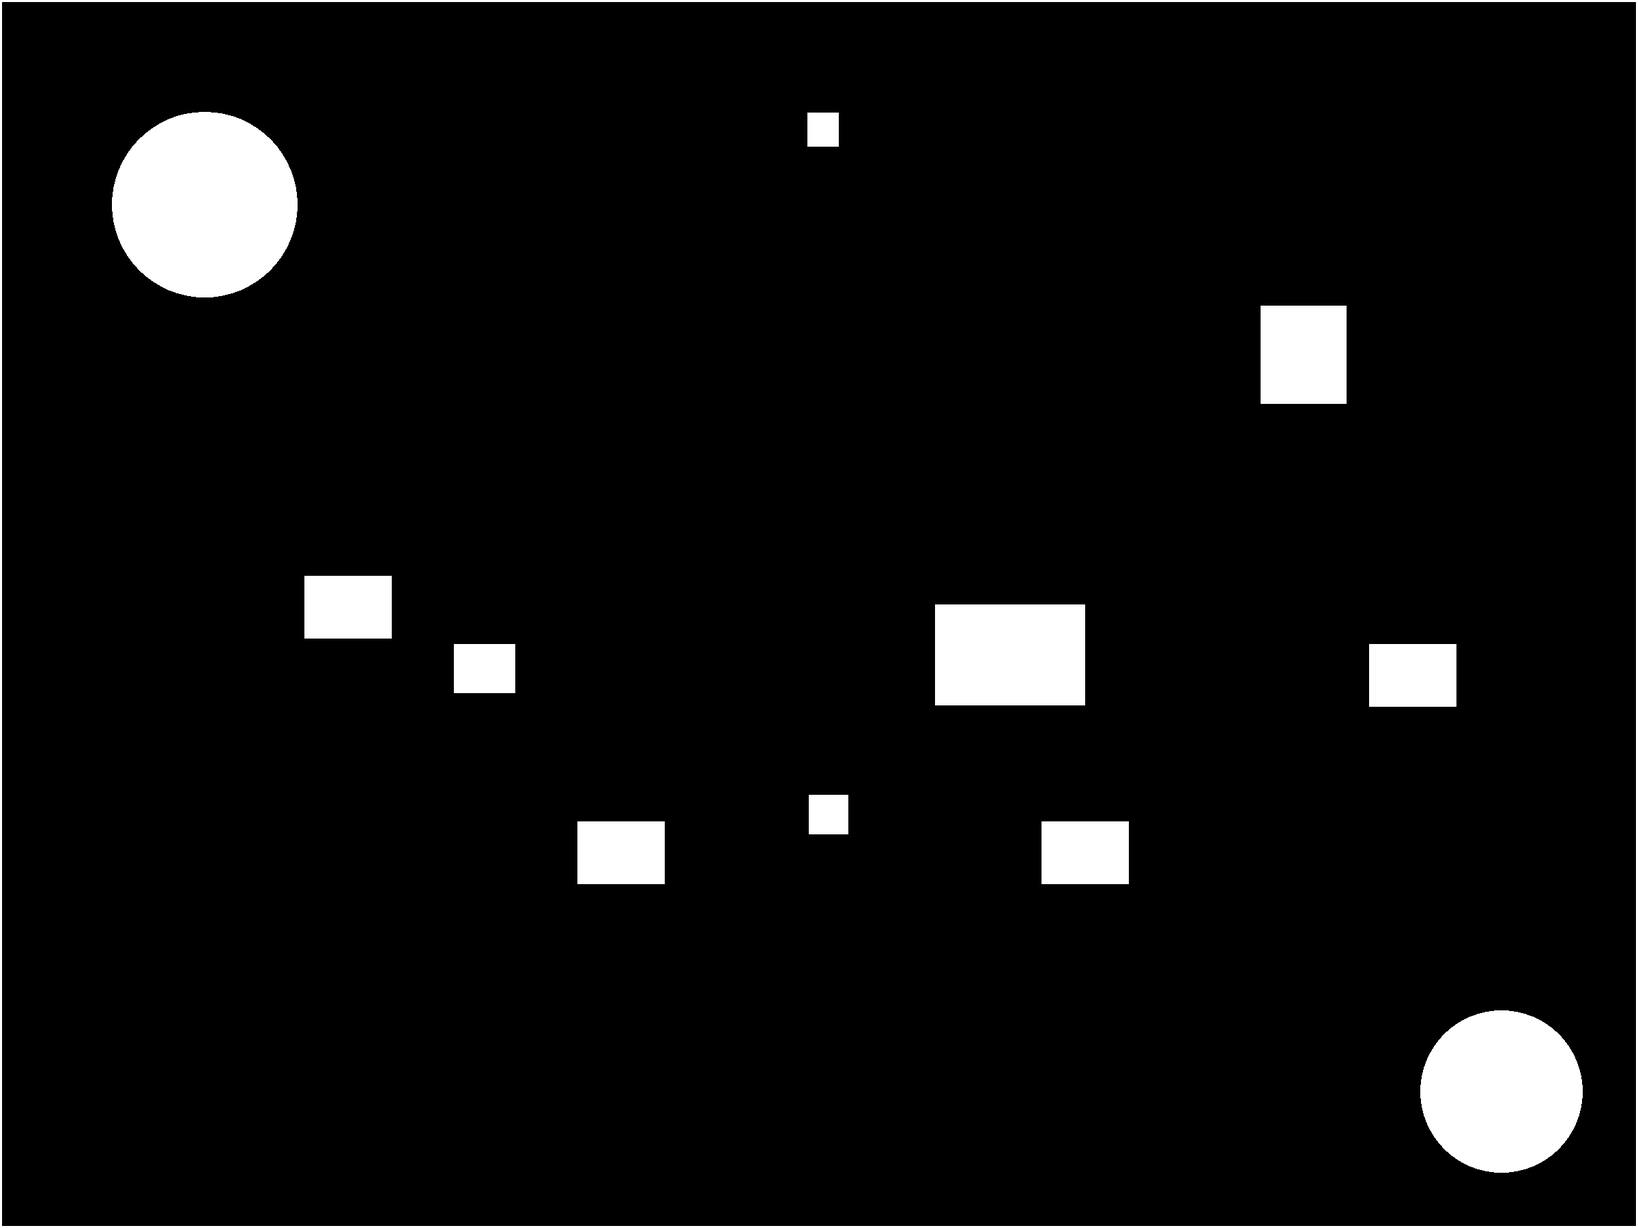
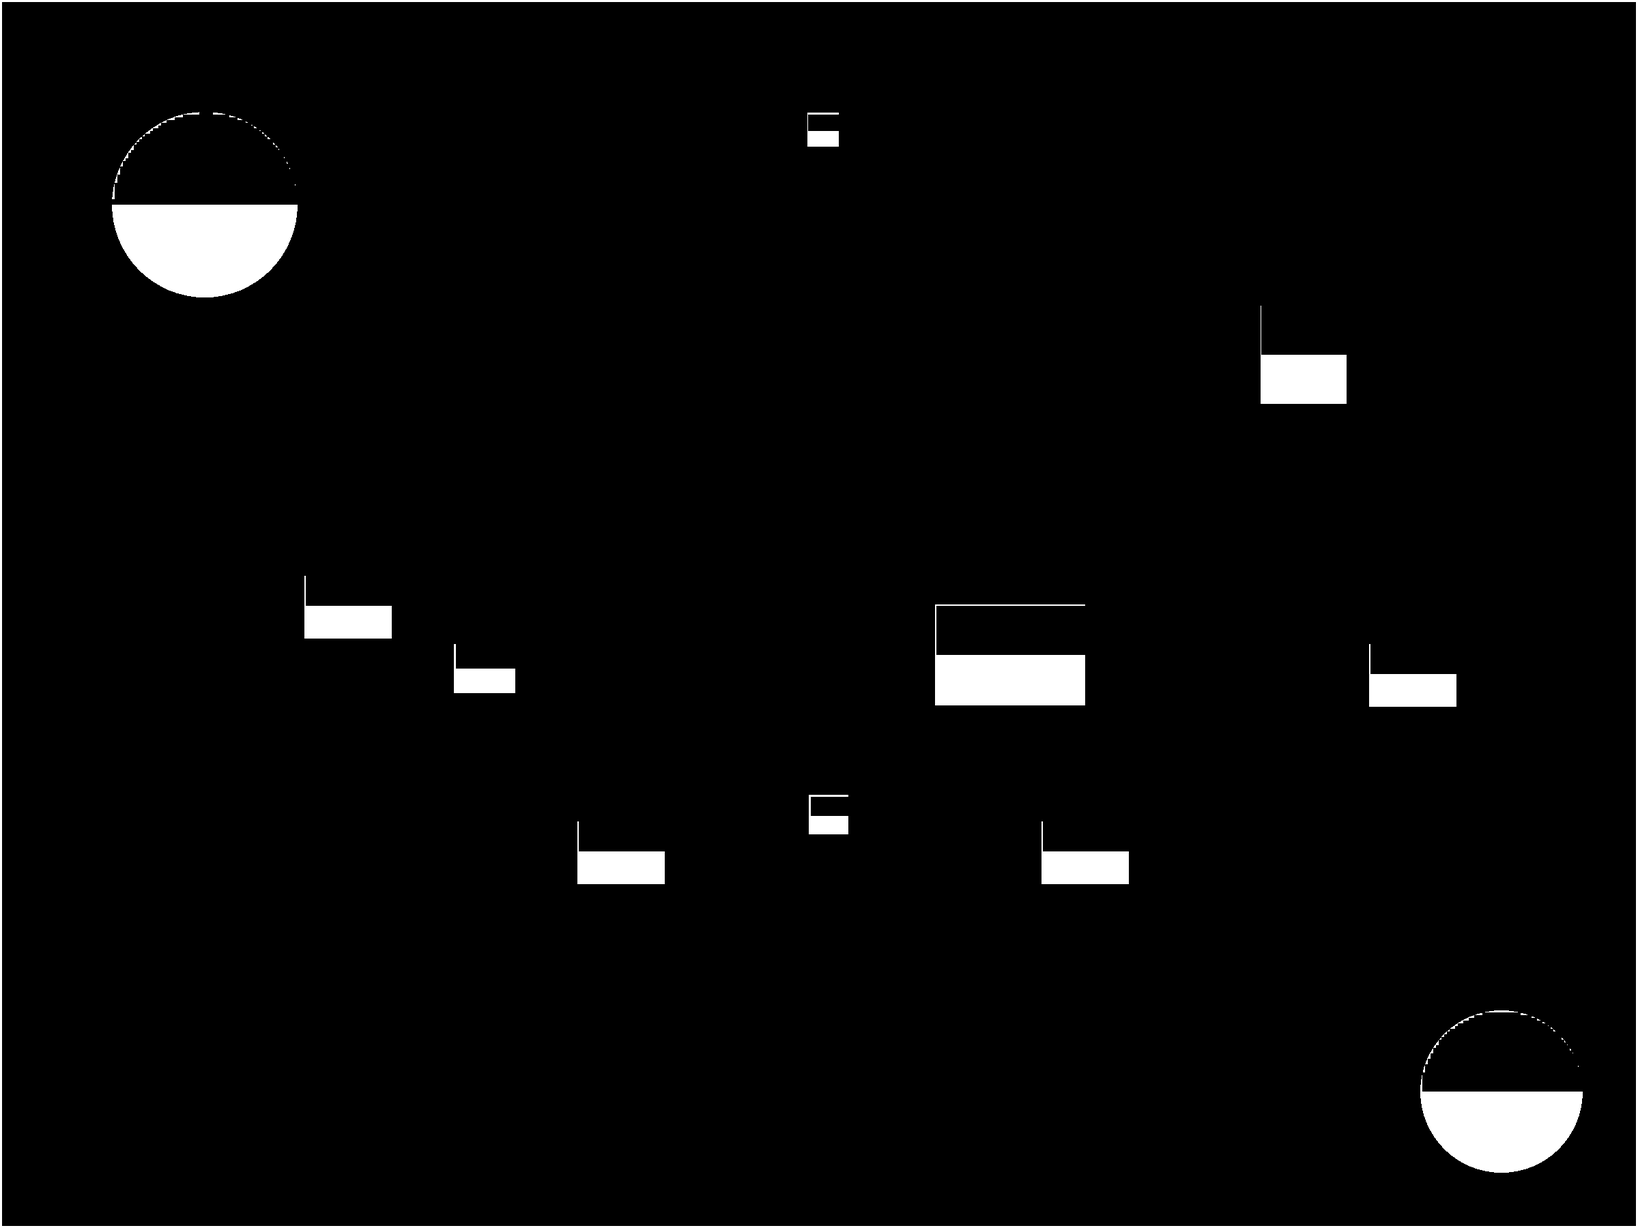
Telhados: tools/topo.py recorta telhados, copas e serras dos mapas pintados (Buck passa por trás; colisão só na base, original em docs/colisao_pc); mapa Hoje com vilas pintadas em Tiradentes, São João e Vila Rica e etiquetas/porta no lugar; sw v2-39
Claude-Session: https://claude.ai/code/session_01KFaBDaA6YPS7remqNCgnin

diff --git a/assets.data.js b/assets.data.js
@@ -1,2 +1,2 @@
 // GERADO por tools/build_assets.mjs — não editar à mão.
-window.ASSETS = ["assets/ui/btn_azul.webp","assets/ui/btn_ouro.webp","assets/ui/panel.webp","assets/icons/angu.webp","assets/icons/barrete.webp","assets/icons/bateia.webp","assets/icons/botas.webp","assets/icons/boticao.webp","assets/icons/canoa.webp","assets/icons/carta-tj.webp","assets/icons/couro.webp","assets/icons/estanho.webp","assets/icons/farinha.webp","assets/icons/ferradura.webp","assets/icons/ferro.webp","assets/icons/formao.webp","assets/icons/gravura.webp","assets/icons/guia.webp","assets/icons/hud_brilho.webp","assets/icons/hud_mochila.webp","assets/icons/hud_ouro.webp","assets/icons/hud_relatorio.webp","assets/icons/hud_segredo.webp","assets/icons/lampiao.webp","assets/icons/livro-antonil.webp","assets/icons/luneta.webp","assets/icons/machado.webp","assets/icons/missao_cajueiro.webp","assets/icons/missao_cavalete.webp","assets/icons/missao_destino.webp","assets/icons/missao_gelo.webp","assets/icons/missao_mamoeiro.webp","assets/icons/missao_mandioca.webp","assets/icons/missao_palavra.webp","assets/icons/missao_papagaio.webp","assets/icons/missao_quitanda.webp","assets/icons/missao_tamandua.webp","assets/icons/oratorio.webp","assets/icons/pacoca.webp","assets/icons/palha.webp","assets/icons/paodequeijo.webp","assets/icons/pedra.webp","assets/icons/pirita.webp","assets/icons/quitanda.webp","assets/icons/rapadura.webp","assets/icons/rede.webp","assets/icons/regua.webp","assets/icons/santo.webp","assets/icons/sorvete.webp","assets/icons/stetson.webp","assets/icons/tricornio.webp","assets/icons/turmalina.webp","assets/sprites/anciao.webp","assets/sprites/antiquario.webp","assets/sprites/antonil.webp","assets/sprites/aprendiz.webp","assets/sprites/arrieiro.webp","assets/sprites/boitata.webp","assets/sprites/boto.webp","assets/sprites/buck.webp","assets/sprites/buck_barrete.webp","assets/sprites/buck_couro.webp","assets/sprites/buck_palha.webp","assets/sprites/buck_tricornio.webp","assets/sprites/cafeeiro.webp","assets/sprites/capitao.webp","assets/sprites/caramuru.webp","assets/sprites/carioca.webp","assets/sprites/cartografo.webp","assets/sprites/chapeleiro.webp","assets/sprites/cineasta.webp","assets/sprites/cobrador.webp","assets/sprites/colombo.webp","assets/sprites/conspirador.webp","assets/sprites/contador.webp","assets/sprites/cortesao.webp","assets/sprites/curadora.webp","assets/sprites/curupira.webp","assets/sprites/engenheiro.webp","assets/sprites/engenho.webp","assets/sprites/faiscador.webp","assets/sprites/feitor.webp","assets/sprites/fernao.webp","assets/sprites/frans.webp","assets/sprites/frevo.webp","assets/sprites/fundidor.webp","assets/sprites/gen_cidadao.webp","assets/sprites/gen_cidadao_retrato.webp","assets/sprites/gen_marinheiro.webp","assets/sprites/gen_marinheiro_retrato.webp","assets/sprites/gen_sertanejo.webp","assets/sprites/gen_sertanejo_retrato.webp","assets/sprites/gen_soldado.webp","assets/sprites/gen_soldado_retrato.webp","assets/sprites/guardia.webp","assets/sprites/guia.webp","assets/sprites/iara.webp","assets/sprites/irmao.webp","assets/sprites/jardineiro.webp","assets/sprites/lobisomem.webp","assets/sprites/louie.webp","assets/sprites/maedoouro.webp","assets/sprites/mapinguari.webp","assets/sprites/maquinista.webp","assets/sprites/marcgrave.webp","assets/sprites/marinheiro.webp","assets/sprites/moncoeiro.webp","assets/sprites/mula.webp","assets/sprites/musico.webp","assets/sprites/nassau.webp","assets/sprites/ouropreto.webp","assets/sprites/paraguacu.webp","assets/sprites/pescador.webp","assets/sprites/poeta.webp","assets/sprites/queijeira.webp","assets/sprites/quitandeira.webp","assets/sprites/rabino.webp","assets/sprites/restauradora.webp","assets/sprites/ribeirinha.webp","assets/sprites/saci.webp","assets/sprites/silverio.webp","assets/sprites/sineiro.webp","assets/sprites/tintureiro.webp","assets/sprites/tiradentes.webp","assets/sprites/tropeiro.webp","assets/sprites/turista.webp","assets/sprites/vaqueiro.webp","assets/sprites/velho.webp","assets/sprites/vigia.webp","assets/sprites/yves.webp","assets/sprites/zelador.webp","assets/sprites/zumbi.webp","assets/props/portal_aberto.webp","assets/props/portal_concluido.webp","assets/props/portal_era.webp","assets/props/portal_fechado.webp","assets/props/pouso.webp","assets/props/relatorio.webp","assets/maps/acucar.webp","assets/maps/acucar_colisao.png","assets/maps/apogeu.webp","assets/maps/apogeu_colisao.png","assets/maps/depois.webp","assets/maps/depois_colisao.png","assets/maps/hoje.webp","assets/maps/hoje_colisao.png","assets/maps/inconfidencia.webp","assets/maps/inconfidencia_colisao.png","assets/maps/invasoes.webp","assets/maps/invasoes_colisao.png","assets/maps/mundo.webp","assets/maps/mundo_colisao.png","assets/maps/ouro.webp","assets/maps/ouro_colisao.png","assets/maps/palmares.webp","assets/maps/palmares_colisao.png","assets/maps/paubrasil.webp","assets/maps/paubrasil_colisao.png","assets/maps/renascimento.webp","assets/maps/renascimento_colisao.png","assets/maps/tiradentes.webp","assets/maps/tiradentes_colisao.png","assets/minis/balanca_fundo.webp","assets/minis/balanca_peso.webp","assets/minis/balanca_prato.webp","assets/minis/carta_cobra_cabeca.webp","assets/minis/carta_cobra_corpo.webp","assets/minis/carta_fundo.webp","assets/minis/carta_pedaco.webp","assets/minis/carta_tabuleiro.webp","assets/minis/escambo_canoa.webp","assets/minis/escambo_feitoria.webp","assets/minis/escambo_fundo.webp","assets/minis/escambo_jangada.webp","assets/minis/escambo_onca.webp","assets/minis/escambo_queixada.webp","assets/minis/escambo_tora.webp","assets/minis/fogueiras_fogueira_acesa.webp","assets/minis/fogueiras_fogueira_apagada.webp","assets/minis/fogueiras_fundo.webp","assets/minis/fogueiras_galho.webp","assets/minis/fogueiras_pedra.webp","assets/minis/fogueiras_serra.webp","assets/minis/fogueiras_tabua.webp","assets/minis/garimpo_agua.webp","assets/minis/garimpo_fundo.webp","assets/minis/garimpo_parede.webp","assets/minis/garimpo_pepita.webp","assets/minis/garimpo_santo.webp","assets/minis/moenda_bagaco.webp","assets/minis/moenda_cana.webp","assets/minis/moenda_carro.webp","assets/minis/moenda_fagulha.webp","assets/minis/moenda_fundo.webp","assets/minis/moenda_moenda.webp","assets/minis/moenda_pao.webp","assets/minis/ponte_fundo.webp","assets/minis/ponte_prancha_curta.webp","assets/minis/ponte_prancha_longa.webp","assets/minis/ponte_prancha_quebrada.webp","assets/minis/profetas_fundo.webp","assets/minis/profetas_pedestal.webp","assets/minis/profetas_profeta.webp","assets/minis/regua_fundo.webp","assets/minis/regua_pergaminho.webp","assets/minis/sinos_fundo.webp","assets/minis/turmalina_esmeralda.webp","assets/minis/turmalina_fundo.webp","assets/minis/turmalina_turmalina.webp"];
+window.ASSETS = ["assets/ui/btn_azul.webp","assets/ui/btn_ouro.webp","assets/ui/panel.webp","assets/icons/angu.webp","assets/icons/barrete.webp","assets/icons/bateia.webp","assets/icons/botas.webp","assets/icons/boticao.webp","assets/icons/canoa.webp","assets/icons/carta-tj.webp","assets/icons/couro.webp","assets/icons/estanho.webp","assets/icons/farinha.webp","assets/icons/ferradura.webp","assets/icons/ferro.webp","assets/icons/formao.webp","assets/icons/gravura.webp","assets/icons/guia.webp","assets/icons/hud_brilho.webp","assets/icons/hud_mochila.webp","assets/icons/hud_ouro.webp","assets/icons/hud_relatorio.webp","assets/icons/hud_segredo.webp","assets/icons/lampiao.webp","assets/icons/livro-antonil.webp","assets/icons/luneta.webp","assets/icons/machado.webp","assets/icons/missao_cajueiro.webp","assets/icons/missao_cavalete.webp","assets/icons/missao_destino.webp","assets/icons/missao_gelo.webp","assets/icons/missao_mamoeiro.webp","assets/icons/missao_mandioca.webp","assets/icons/missao_palavra.webp","assets/icons/missao_papagaio.webp","assets/icons/missao_quitanda.webp","assets/icons/missao_tamandua.webp","assets/icons/oratorio.webp","assets/icons/pacoca.webp","assets/icons/palha.webp","assets/icons/paodequeijo.webp","assets/icons/pedra.webp","assets/icons/pirita.webp","assets/icons/quitanda.webp","assets/icons/rapadura.webp","assets/icons/rede.webp","assets/icons/regua.webp","assets/icons/santo.webp","assets/icons/sorvete.webp","assets/icons/stetson.webp","assets/icons/tricornio.webp","assets/icons/turmalina.webp","assets/sprites/anciao.webp","assets/sprites/antiquario.webp","assets/sprites/antonil.webp","assets/sprites/aprendiz.webp","assets/sprites/arrieiro.webp","assets/sprites/boitata.webp","assets/sprites/boto.webp","assets/sprites/buck.webp","assets/sprites/buck_barrete.webp","assets/sprites/buck_couro.webp","assets/sprites/buck_palha.webp","assets/sprites/buck_tricornio.webp","assets/sprites/cafeeiro.webp","assets/sprites/capitao.webp","assets/sprites/caramuru.webp","assets/sprites/carioca.webp","assets/sprites/cartografo.webp","assets/sprites/chapeleiro.webp","assets/sprites/cineasta.webp","assets/sprites/cobrador.webp","assets/sprites/colombo.webp","assets/sprites/conspirador.webp","assets/sprites/contador.webp","assets/sprites/cortesao.webp","assets/sprites/curadora.webp","assets/sprites/curupira.webp","assets/sprites/engenheiro.webp","assets/sprites/engenho.webp","assets/sprites/faiscador.webp","assets/sprites/feitor.webp","assets/sprites/fernao.webp","assets/sprites/frans.webp","assets/sprites/frevo.webp","assets/sprites/fundidor.webp","assets/sprites/gen_cidadao.webp","assets/sprites/gen_cidadao_retrato.webp","assets/sprites/gen_marinheiro.webp","assets/sprites/gen_marinheiro_retrato.webp","assets/sprites/gen_sertanejo.webp","assets/sprites/gen_sertanejo_retrato.webp","assets/sprites/gen_soldado.webp","assets/sprites/gen_soldado_retrato.webp","assets/sprites/guardia.webp","assets/sprites/guia.webp","assets/sprites/iara.webp","assets/sprites/irmao.webp","assets/sprites/jardineiro.webp","assets/sprites/lobisomem.webp","assets/sprites/louie.webp","assets/sprites/maedoouro.webp","assets/sprites/mapinguari.webp","assets/sprites/maquinista.webp","assets/sprites/marcgrave.webp","assets/sprites/marinheiro.webp","assets/sprites/moncoeiro.webp","assets/sprites/mula.webp","assets/sprites/musico.webp","assets/sprites/nassau.webp","assets/sprites/ouropreto.webp","assets/sprites/paraguacu.webp","assets/sprites/pescador.webp","assets/sprites/poeta.webp","assets/sprites/queijeira.webp","assets/sprites/quitandeira.webp","assets/sprites/rabino.webp","assets/sprites/restauradora.webp","assets/sprites/ribeirinha.webp","assets/sprites/saci.webp","assets/sprites/silverio.webp","assets/sprites/sineiro.webp","assets/sprites/tintureiro.webp","assets/sprites/tiradentes.webp","assets/sprites/tropeiro.webp","assets/sprites/turista.webp","assets/sprites/vaqueiro.webp","assets/sprites/velho.webp","assets/sprites/vigia.webp","assets/sprites/yves.webp","assets/sprites/zelador.webp","assets/sprites/zumbi.webp","assets/props/portal_aberto.webp","assets/props/portal_concluido.webp","assets/props/portal_era.webp","assets/props/portal_fechado.webp","assets/props/pouso.webp","assets/props/relatorio.webp","assets/maps/acucar.webp","assets/maps/acucar_colisao.png","assets/maps/acucar_top.webp","assets/maps/apogeu.webp","assets/maps/apogeu_colisao.png","assets/maps/apogeu_top.webp","assets/maps/depois.webp","assets/maps/depois_colisao.png","assets/maps/depois_top.webp","assets/maps/hoje.webp","assets/maps/hoje_colisao.png","assets/maps/hoje_top.webp","assets/maps/inconfidencia.webp","assets/maps/inconfidencia_colisao.png","assets/maps/inconfidencia_top.webp","assets/maps/invasoes.webp","assets/maps/invasoes_colisao.png","assets/maps/invasoes_top.webp","assets/maps/mundo.webp","assets/maps/mundo_colisao.png","assets/maps/mundo_top.webp","assets/maps/ouro.webp","assets/maps/ouro_colisao.png","assets/maps/ouro_top.webp","assets/maps/palmares.webp","assets/maps/palmares_colisao.png","assets/maps/palmares_top.webp","assets/maps/paubrasil.webp","assets/maps/paubrasil_colisao.png","assets/maps/paubrasil_top.webp","assets/maps/renascimento.webp","assets/maps/renascimento_colisao.png","assets/maps/renascimento_top.webp","assets/maps/tiradentes.webp","assets/maps/tiradentes_colisao.png","assets/maps/tiradentes_top.webp","assets/minis/balanca_fundo.webp","assets/minis/balanca_peso.webp","assets/minis/balanca_prato.webp","assets/minis/carta_cobra_cabeca.webp","assets/minis/carta_cobra_corpo.webp","assets/minis/carta_fundo.webp","assets/minis/carta_pedaco.webp","assets/minis/carta_tabuleiro.webp","assets/minis/escambo_canoa.webp","assets/minis/escambo_feitoria.webp","assets/minis/escambo_fundo.webp","assets/minis/escambo_jangada.webp","assets/minis/escambo_onca.webp","assets/minis/escambo_queixada.webp","assets/minis/escambo_tora.webp","assets/minis/fogueiras_fogueira_acesa.webp","assets/minis/fogueiras_fogueira_apagada.webp","assets/minis/fogueiras_fundo.webp","assets/minis/fogueiras_galho.webp","assets/minis/fogueiras_pedra.webp","assets/minis/fogueiras_serra.webp","assets/minis/fogueiras_tabua.webp","assets/minis/garimpo_agua.webp","assets/minis/garimpo_fundo.webp","assets/minis/garimpo_parede.webp","assets/minis/garimpo_pepita.webp","assets/minis/garimpo_santo.webp","assets/minis/moenda_bagaco.webp","assets/minis/moenda_cana.webp","assets/minis/moenda_carro.webp","assets/minis/moenda_fagulha.webp","assets/minis/moenda_fundo.webp","assets/minis/moenda_moenda.webp","assets/minis/moenda_pao.webp","assets/minis/ponte_fundo.webp","assets/minis/ponte_prancha_curta.webp","assets/minis/ponte_prancha_longa.webp","assets/minis/ponte_prancha_quebrada.webp","assets/minis/profetas_fundo.webp","assets/minis/profetas_pedestal.webp","assets/minis/profetas_profeta.webp","assets/minis/regua_fundo.webp","assets/minis/regua_pergaminho.webp","assets/minis/sinos_fundo.webp","assets/minis/turmalina_esmeralda.webp","assets/minis/turmalina_fundo.webp","assets/minis/turmalina_turmalina.webp"];

diff --git a/maps/hoje.js b/maps/hoje.js
@@ -38,7 +38,7 @@ window.MAPS.hoje = {
   },
   pois: {
     chafariz: [1418, 1428], mirante: [1398, 1478], sineiro: [1512, 1392], tropeiro: [1600, 1430], estrada: [1660, 1455],
-    estatua: [1452, 1408], door_tiradentes: [1466, 1440],
+    estatua: [1452, 1408], door_tiradentes: [1408, 1378],
   },
   doors: { door_tiradentes: { map: 'tiradentes', title: 'Tiradentes · Hoje' } },
   cards: { C00: [1478, 1428] },
@@ -48,7 +48,7 @@ window.MAPS.hoje = {
   ],
   minis: [{ id: 'sinos', act: 3, label: 'A Língua dos Sinos', locked: 'Os sinos ainda não confiam em você. Volte quando o Ato IV abrir.' }],
   labels: [
-    [1440, 1395, 'Tiradentes'], [1505, 1342, 'São João del-Rei'], [1705, 1200, 'Vila Rica'], [1775, 1445, 'Rio de Janeiro'],
+    [1392, 1300, 'Tiradentes'], [1600, 1325, 'São João del-Rei'], [1785, 1145, 'Vila Rica'], [1775, 1445, 'Rio de Janeiro'],
     [2005, 1172, 'Porto Seguro'], [2215, 695, 'Recife'], [2140, 760, 'Serra da Barriga'], [800, 560, 'Amazônia'], [1640, 1462, 'Estrada Real'],
   ],
   // buraco → era (px do mundo)

diff --git a/sw.js b/sw.js
@@ -1,6 +1,6 @@
 // Offline: guarda tudo na primeira visita. Responde do cache e atualiza em segundo
 // plano, então uma correção de conteúdo chega ao celular na abertura seguinte.
-const CACHE = 'relogio-v2-38';
+const CACHE = 'relogio-v2-39';
 const FILES = [
   './', 'index.html', 'manifest.webmanifest', 'game.js', 'cutscenes.js', 'minis.js', 'content.data.js', 'assets.data.js', 'lang.data.js', 'i18n.js', 'maps/hoje.js', 'maps/eras.js', 'world.js',
   'assets/fonts/lilita-one.woff2', 'assets/fonts/nunito-800.woff2', 'assets/fonts/nunito-900.woff2', 'assets/img/ui/icon-192.png', 'assets/img/ui/icon-512.png',

diff --git a/tools/topo.py b/tools/topo.py
@@ -1,0 +1,61 @@
+# Camada de cima (telhados, topo das igrejas e das serras) recortada do próprio mapa pintado.
+#   python tools/topo.py tiradentes hoje        (ou: python tools/topo.py todos)
+# Para cada bloco da colisão que é construção ou serra (não encosta na borda, não é rio comprido):
+#   - a metade de cima vira assets/maps/<id>_top.webp (desenhada por cima do Buck: ele passa por trás);
+#   - a colisão fica só na metade de baixo (a base da casa), para dar para andar atrás do telhado.
+# A colisão original do PC fica guardada em docs/colisao_pc/<id>_colisao.png e é sempre a fonte: rodar de novo dá o mesmo resultado.
+import sys, os, shutil
+import numpy as np
+from PIL import Image, ImageFilter
+
+RAIZ = os.path.join(os.path.dirname(__file__), '..')
+CORTE = 0.5      # fração de cima de cada bloco que vira telhado
+PASSO = 4        # resolução da busca de blocos (px da imagem)
+
+def blocos(livre):
+    """rótulos 4-conectados dos pixels bloqueados (grade reduzida), sem scipy"""
+    h, w = livre.shape
+    rot = np.zeros((h, w), np.int32); n = 0; info = []
+    for y0 in range(h):
+        for x0 in range(w):
+            if not livre[y0, x0] or rot[y0, x0]: continue
+            n += 1; pilha = [(y0, x0)]; rot[y0, x0] = n; xs = []; ys = []
+            while pilha:
+                y, x = pilha.pop(); xs.append(x); ys.append(y)
+                for ny, nx in ((y + 1, x), (y - 1, x), (y, x + 1), (y, x - 1)):
+                    if 0 <= ny < h and 0 <= nx < w and livre[ny, nx] and not rot[ny, nx]:
+                        rot[ny, nx] = n; pilha.append((ny, nx))
+            info.append((n, min(xs), min(ys), max(xs), max(ys), len(xs)))
+    return rot, info
+
+def topo(mid):
+    arte = os.path.join(RAIZ, f'assets/maps/{mid}.webp')
+    col = os.path.join(RAIZ, f'assets/maps/{mid}_colisao.png')
+    orig = os.path.join(RAIZ, f'docs/colisao_pc/{mid}_colisao.png')
+    if not os.path.exists(arte) or not os.path.exists(col): print(mid, ': sem mapa pintado ou colisão'); return
+    os.makedirs(os.path.dirname(orig), exist_ok=True)
+    if not os.path.exists(orig): shutil.copy(col, orig)
+    img = Image.open(arte).convert('RGBA'); W, H = img.size
+    m = np.array(Image.open(orig).convert('L').resize((W, H))) > 128
+    g = m[::PASSO, ::PASSO]; gh, gw = g.shape
+    rot, info = blocos(g)
+    corte = np.zeros_like(g)
+    usados = 0
+    for n, x0, y0, x1, y1, area in info:
+        bw, bh = x1 - x0 + 1, y1 - y0 + 1
+        if x0 == 0 or y0 == 0 or x1 == gw - 1 or y1 == gh - 1: continue      # mar, borda, mata da borda
+        if area > 0.04 * gw * gh or bh < 6 or area < 60 or area / (bw * bh) < 0.4 or bw > 3.5 * bh: continue  # rio (comprido), objeto miúdo ou bloco grande demais
+        ycut = y0 + int(bh * CORTE)
+        sel = (rot[y0:ycut, x0:x1 + 1] == n)
+        corte[y0:ycut, x0:x1 + 1] |= sel; usados += 1
+    full = np.kron(corte, np.ones((PASSO, PASSO), bool))[:H, :W]
+    alpha = Image.fromarray((full * 255).astype(np.uint8)).filter(ImageFilter.MaxFilter(5)).filter(ImageFilter.GaussianBlur(1.5))
+    top = img.copy(); top.putalpha(alpha)
+    top.save(os.path.join(RAIZ, f'assets/maps/{mid}_top.webp'), 'WEBP', quality=88)
+    nova = m & ~full
+    Image.fromarray((nova * 255).astype(np.uint8)).save(col)
+    print(f'{mid}: {usados} telhados/serras recortados')
+
+ids = sys.argv[1:]
+if ids == ['todos']: ids = [f[:-5] for f in os.listdir(os.path.join(RAIZ, 'assets/maps')) if f.endswith('.webp') and '_' not in f]
+for i in ids: topo(i)

diff --git a/docs/LOTES_ARTE.md b/docs/LOTES_ARTE.md
@@ -80,6 +80,11 @@ python tools/arte.py <tipo> <arquivo_gerado> <nome> [--fundo]
 - Fontes novas (Lilita One e Nunito), painéis e botões arredondados.
 - Guias: `docs/guias/` (rascunho, colisão e anotado de Tiradentes e do mapa do Brasil, mais o `.json` com as coordenadas).
 
+## 6b. Feito na nuvem depois do L9
+- Camadas `_top` de todos os mapas recortadas por `python tools/topo.py todos` (não precisa gerar no Flow). Repintou um mapa? Rode de novo.
+- Mapa Hoje: vilazinhas de Tiradentes, São João e Vila Rica coladas a partir das vilas da própria pintura (etiquetas e porta de Tiradentes movidas para cima delas).
+- Bonecos 1,5× maiores nos mapas pintados (`BONECO` em `game.js`).
+
 ## 7. Recado da sessão local (2026-10-23): L0 a L9 gerados
 - **212 de 215** prontos. Faltam só: `amado` (parceiro real, espera autorização por escrito) e as camadas opcionais `tiradentes_top` / `hoje_top` (telhados e copas recortados do mapa pintado; não dá para gerar alinhado no Flow, melhor recortar a partir do próprio `assets/maps/<id>.webp` com uma máscara).
 - **Colisão:** usei a máscara dos guias (`docs/guias/<id>_colisao.png`); os mapas pintados foram conferidos por sobreposição com o `_anotado` e caíram no lugar. Vale andar por cada era e ajustar onde a arte nova pôs casa/árvore fora da máscara.

diff --git a/CLAUDE.md b/CLAUDE.md
@@ -70,6 +70,8 @@ para um guia de turismo de Tiradentes (MG) aprender e usar a história no celula
   `_top` e `_colisao`). O jogo só carrega o que está em `assets.data.js` (`node tools/build_assets.mjs`); sem arquivo,
   vale o desenho antigo. Tratar imagens com `python tools/arte.py <tipo> <arquivo> <nome> [--fundo]`.
 - Mapas pintados partem dos guias em `docs/guias/` (planta, colisão e anotado), para o caminho bater com a colisão.
+- Telhados: `python tools/topo.py <id>|todos` recorta a metade de cima de cada casa/serra do mapa pintado para `<id>_top.webp`
+  (o Buck passa por trás) e deixa a colisão só na base. A colisão original do PC fica em `docs/colisao_pc/`; rodar de novo depois de repintar um mapa.
 - Minigames: `A.spr(nome, cx, cy, w, h, flip)` e `A.fundo()` usam `assets/minis/<mini>_<nome>.webp` quando existe;
   senão desenham como antes; `A.arte(nome)` dá a textura crua. Lotes: L0–L2 prontos e aprovados; L3–L9 com a sessão local.
 - Testemunhas sem ficha usam 4 tipos genéricos (`gen_marinheiro`, `gen_soldado`, `gen_sertanejo`, `gen_cidadao`), com sprite e retrato.
